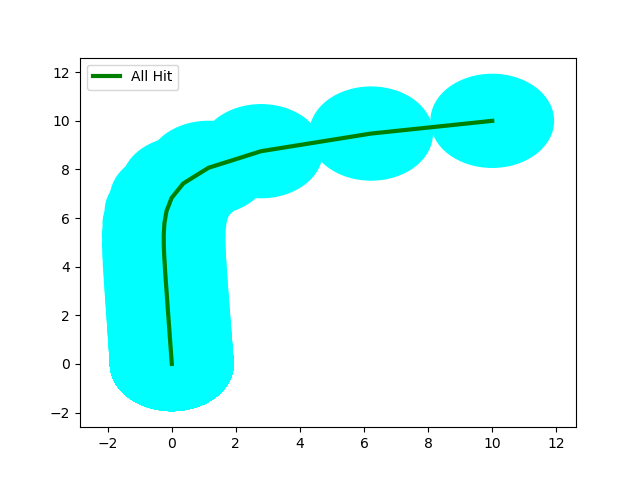
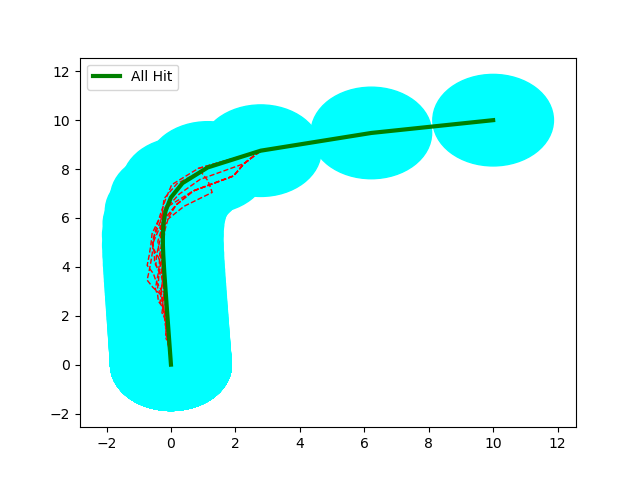
Experiments: prelim exps

diff --git a/src/Exps.py b/src/Exps.py
@@ -27,8 +27,9 @@ class Exp:
 
         randSampObj=randSampObj=RandSampling(systemObj,H,schedPol,distro,K_miss)
         nomTraj=randSampObj.getAllHitTraj(initPointArrayRep)
+        (s,randSamps)=randSampObj.getSamples(initPointArrayRep,10)
         allMissTraj=randSampObj.getAllMissTraj(initPointArrayRep)
-        Viz.vizTrajs(nomTraj,allMissTraj,d_ub)
+        Viz.vizTrajs(nomTraj,randSamps,d_ub)
 
     def test1(initPoint=[10,10],H=150,schedPol="ZeroSkip-Next",distro="K-Miss",K_miss=3,heuName="RandSampKMiss",B=1000,c=0.99):
         dynA=Benchmarks.Steering.A
@@ -47,7 +48,8 @@ class Exp:
         randSampObj=randSampObj=RandSampling(systemObj,H,schedPol,distro,K_miss)
         nomTraj=randSampObj.getAllHitTraj(initPointArrayRep)
         allMissTraj=randSampObj.getAllMissTraj(initPointArrayRep)
-        Viz.vizTrajs(nomTraj,allMissTraj,d_ub)
+        (s,randSamps)=randSampObj.getSamples(initPointArrayRep,10)
+        Viz.vizTrajs(nomTraj,randSamps,d_ub)
 
     def test2(initPoint=[10,10],H=150,schedPol="HoldSkip-Next",distro="K-Miss",K_miss=3,heuName="RandSampKMiss",B=1000,c=0.99):
         dynA=Benchmarks.ECRTS21.A
@@ -66,7 +68,8 @@ class Exp:
         randSampObj=randSampObj=RandSampling(systemObj,H,schedPol,distro,K_miss)
         nomTraj=randSampObj.getAllHitTraj(initPointArrayRep)
         allMissTraj=randSampObj.getAllMissTraj(initPointArrayRep)
-        Viz.vizTrajs(nomTraj,[],d_ub)
+        (s,randSamps)=randSampObj.getSamples(initPointArrayRep,10)
+        Viz.vizTrajs(nomTraj,randSamps,d_ub)
 
 
 

diff --git a/lib/Visualization.py b/lib/Visualization.py
@@ -9,7 +9,7 @@ import matplotlib.pyplot as plt
 
 class Viz:
 
-    def vizTrajs(allHitTraj,allMissTraj,d_ub,th1=0,th2=1):
+    def vizTrajs(allHitTraj,randTrajs,d_ub,th1=0,th2=1):
         plt.figure()
         fig, ax = plt.subplots()
 
@@ -27,8 +27,13 @@ class Viz:
             0;
             ax.add_patch(plt.Circle((allHitTraj[t][th1][0], allHitTraj[t][th2][0]), d_ub, color='cyan',alpha=1))
 
-        plt.plot(allHitX,allHitY,label="All Hit", color='g',markersize=2,linewidth=3)
         #plt.plot(allMissX,allMissY,label="All Miss", color='r',markersize=2,linewidth=3)
+        for traj in randTrajs:
+            X=[traj[t][th1][0] for t in range(H)]
+            Y=[traj[t][th2][0] for t in range(H)]
+            plt.plot(X,Y, color='r',markersize=1,linewidth=1,linestyle='--')
+
+        plt.plot(allHitX,allHitY,label="All Hit", color='g',markersize=2,linewidth=3)
 
         plt.legend()
         plt.show()

diff --git a/output/ECRTS21_HS-N/README.md b/output/ECRTS21_HS-N/README.md
@@ -3,25 +3,25 @@
 ```shell
 >> Starting Main Algo.	Sched Policy:  HoldSkip-Next .	Distro:  K-Miss .	Heuristic Used:  RandSampKMiss
 	>> SUB-STATUS: Computing Initial d
-	* d:  13.18374366233286
-	* Time Taken:  1.5608327388763428
+	* d:  12.02354838670819
+	* Time Taken:  1.3621180057525635
 	>> SUB-STATUS: Initial d Computed!!
 
 	>> SUB-STATUS: Refinement Starts . . .
 	>> SUB-STATUS: Iteration Number:  0
 >> STATUS: Statistically Verifying . . .
 	* Hypothesis Accepted:  False
-	* Time Taken:  23.896167278289795
+	* Time Taken:  23.567450284957886
 >> STATUS: Statistically Verified!!
 	>> SUB-STATUS: Iteration Number:  1
 >> STATUS: Statistically Verifying . . .
 	* Hypothesis Accepted:  True
-	* Time Taken:  22.175347566604614
+	* Time Taken:  22.68632221221924
 >> STATUS: Statistically Verified!!
 	>> SUB-STATUS: Refinement End . . .
-	* Time Taken:  47.66020131111145
+	* Time Taken:  47.6453070640564
 	* Refinements Made:  1
-	* Upper Bound d:  28.22528093791286
+	* Upper Bound d:  18.65626256203875
 >> Main Algo Executed!!
 ```
 

diff --git a/output/Steering_ZS-N/README.md b/output/Steering_ZS-N/README.md
@@ -3,24 +3,19 @@
 ```shell
 >> Starting Main Algo.	Sched Policy:  ZeroSkip-Next .	Distro:  K-Miss .	Heuristic Used:  RandSampKMiss
 	>> SUB-STATUS: Computing Initial d
-	* d:  3.8066609928441006
-	* Time Taken:  1.3918437957763672
+	* d:  4.8828947779540925
+	* Time Taken:  1.4051904678344727
 	>> SUB-STATUS: Initial d Computed!!
 
 	>> SUB-STATUS: Refinement Starts . . .
 	>> SUB-STATUS: Iteration Number:  0
 >> STATUS: Statistically Verifying . . .
-	* Hypothesis Accepted:  False
-	* Time Taken:  21.149264574050903
->> STATUS: Statistically Verified!!
-	>> SUB-STATUS: Iteration Number:  1
->> STATUS: Statistically Verifying . . .
 	* Hypothesis Accepted:  True
-	* Time Taken:  22.47159719467163
+	* Time Taken:  20.194774389266968
 >> STATUS: Statistically Verified!!
 	>> SUB-STATUS: Refinement End . . .
-	* Time Taken:  45.03961133956909
-	* Refinements Made:  1
+	* Time Taken:  21.615723848342896
+	* Refinements Made:  0
 	* Upper Bound d:  4.8828947779540925
 >> Main Algo Executed!!
 ```

diff --git a/output/RC_HS-N/README.md b/output/RC_HS-N/README.md
@@ -3,20 +3,20 @@
 ```shell
 >> Starting Main Algo.	Sched Policy:  HoldSkip-Next .	Distro:  K-Miss .	Heuristic Used:  RandSampKMiss
 	>> SUB-STATUS: Computing Initial d
-	* d:  1.9101777916994032
-	* Time Taken:  1.1261742115020752
+	* d:  1.8721072654790787
+	* Time Taken:  0.9405436515808105
 	>> SUB-STATUS: Initial d Computed!!
 
 	>> SUB-STATUS: Refinement Starts . . .
 	>> SUB-STATUS: Iteration Number:  0
 >> STATUS: Statistically Verifying . . .
 	* Hypothesis Accepted:  True
-	* Time Taken:  20.95765709877014
+	* Time Taken:  19.015315532684326
 >> STATUS: Statistically Verified!!
 	>> SUB-STATUS: Refinement End . . .
-	* Time Taken:  22.09487509727478
+	* Time Taken:  19.965781688690186
 	* Refinements Made:  0
-	* Upper Bound d:  1.9101777916994032
+	* Upper Bound d:  1.8721072654790787
 >> Main Algo Executed!!
 ```
 

diff --git a/output/Steering_HS-N/README.md b/output/Steering_HS-N/README.md
@@ -4,17 +4,17 @@
 >> Starting Main Algo.	Sched Policy:  HoldSkip-Next .	Distro:  K-Miss .	Heuristic Used:  RandSampKMiss
 	>> SUB-STATUS: Computing Initial d
 	* d:  4.8828947779540925
-	* Time Taken:  1.7728550434112549
+	* Time Taken:  1.3374967575073242
 	>> SUB-STATUS: Initial d Computed!!
 
 	>> SUB-STATUS: Refinement Starts . . .
 	>> SUB-STATUS: Iteration Number:  0
 >> STATUS: Statistically Verifying . . .
 	* Hypothesis Accepted:  True
-	* Time Taken:  23.214864253997803
+	* Time Taken:  20.99226450920105
 >> STATUS: Statistically Verified!!
 	>> SUB-STATUS: Refinement End . . .
-	* Time Taken:  25.00306510925293
+	* Time Taken:  22.344618558883667
 	* Refinements Made:  0
 	* Upper Bound d:  4.8828947779540925
 >> Main Algo Executed!!
